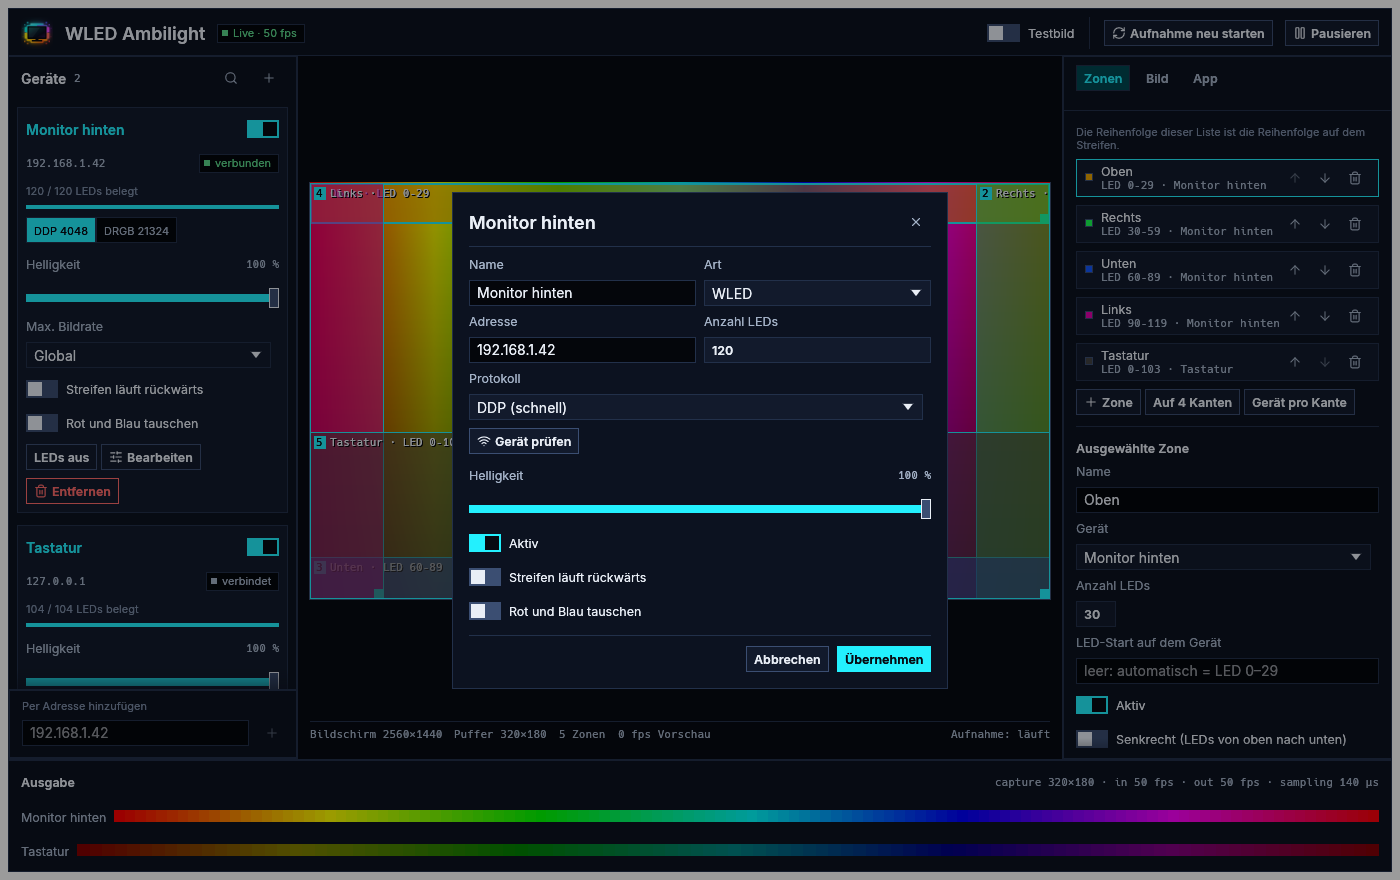
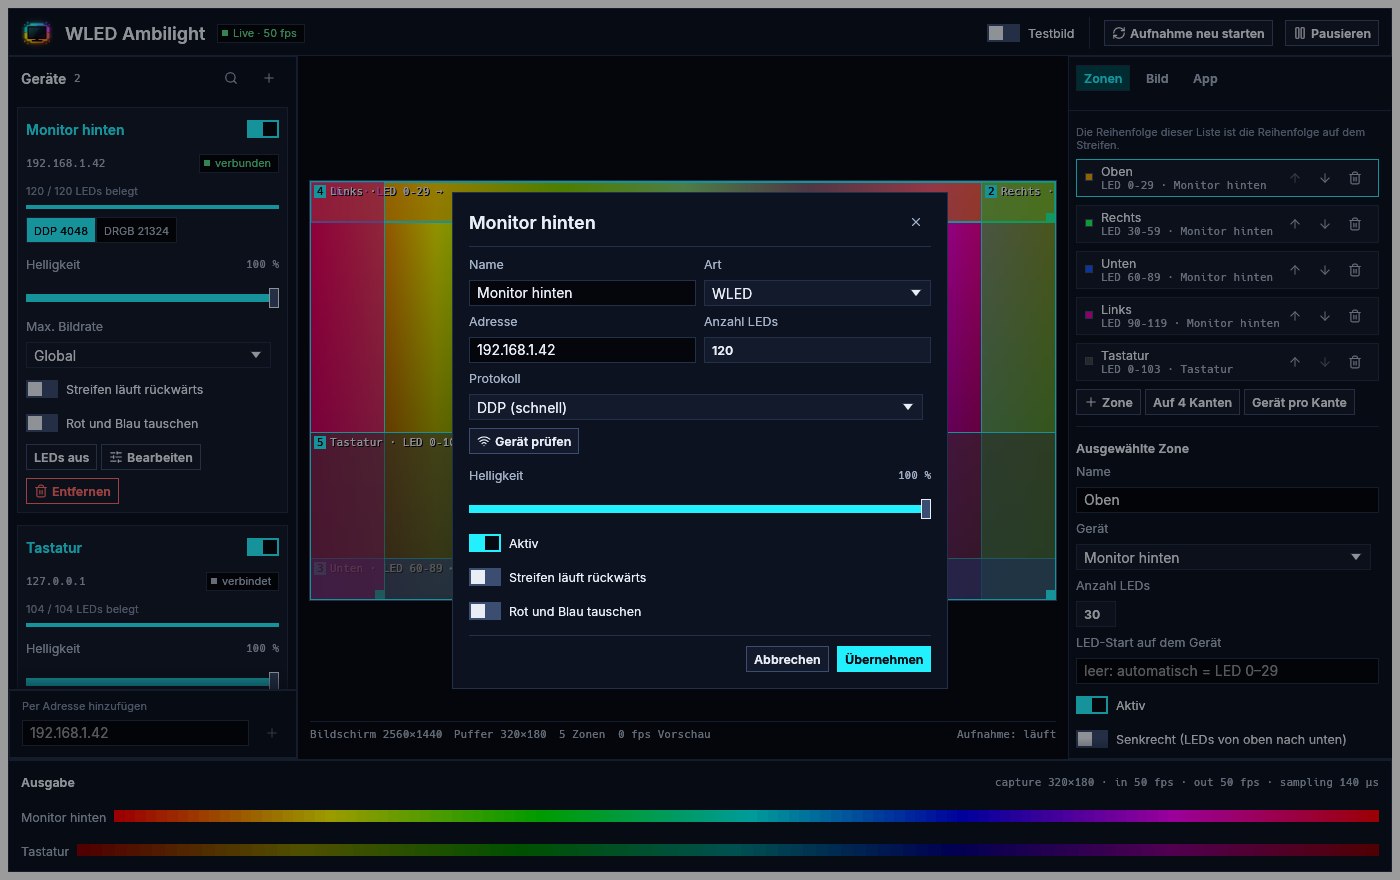
fix: Laufrichtung pro Zone umkehrbar (#32) (#35)
* fix: Laufrichtung pro Zone umkehrbar, unabhängig von „Senkrecht“

Bisher ließ sich die Richtung nur für den ganzen Streifen umkehren. Ein
Streifen, der rundherum hinter dem Bildschirm läuft, muss aber an einer Seite
hinunter und an der anderen hinauf laufen – eine Seite war immer gespiegelt.

- Zone bekommt `reverse` (serde default false): die Zone zählt ihre LEDs vom
  anderen Ende. Der Sampler nimmt es auf, der Layout-Hash auch.
- Alte Konfigurationen: nur flip_h/flip_v wandern noch aufs Gerät, `reverse`
  bleibt an der Zone.
- „Auf 4 Kanten“ legt einen Ring im Uhrzeigersinn an: unten und links laufen
  rückwärts (ZonePreset::reversed_in_loop). „Gerät pro Kante“ bleibt vorwärts.
- Inspektor: Schalter „Richtung umkehren (LED 0 am anderen Ende)“ neben
  „Senkrecht“; die Bühne zeigt hinter dem LED-Bereich einen Pfeil (→ ← ↓ ↑).

Closes #32

* docs: Zonenrichtung im README, Bildschirmfotos neu erzeugt

diff --git a/crates/core/src/config.rs b/crates/core/src/config.rs
@@ -141,6 +141,11 @@ pub struct Zone {
     pub count: u16,
     /// true: LEDs run top -> bottom, false: left -> right
     pub vertical: bool,
+    /// true: the direction is flipped (bottom -> top, right -> left). A strip
+    /// running in a loop behind the screen needs this on one of two opposite
+    /// sides (issue #32).
+    #[serde(default)]
+    pub reverse: bool,
     /// per zone gain
     pub gain: f32,
     pub enabled: bool,
@@ -168,6 +173,7 @@ impl Zone {
             h,
             count: count.max(1),
             vertical,
+            reverse: false,
             gain: 1.0,
             enabled: true,
             offset: None,
@@ -186,6 +192,15 @@ pub enum ZonePreset {
     #[allow(dead_code)]
     Full,
     Custom,
+}
+
+impl ZonePreset {
+    /// One strip in a loop behind the screen, clockwise from the top left:
+    /// right along the top, down the right, back along the bottom, up the
+    /// left. Bottom and left therefore run backwards (issue #32).
+    pub fn reversed_in_loop(self) -> bool {
+        matches!(self, ZonePreset::Bottom | ZonePreset::Left)
+    }
 }
 
 #[derive(Debug, Clone, PartialEq, Serialize, Deserialize)]
@@ -316,14 +331,14 @@ impl Config {
 
     pub fn from_json(text: &str) -> Result<Self, serde_json::Error> {
         let mut v: serde_json::Value = serde_json::from_str(text)?;
-        // Zones used to carry flip_h/flip_v. A reversed strip is a property of the
-        // device, so fold the old flags into it (safe for the one-zone case).
+        // Zones used to carry flip_h/flip_v. Those mirrored the whole strip, so
+        // fold them into the device (safe for the one-zone case). `reverse` on a
+        // zone is the direction of that zone alone and stays where it is.
         let mut flip_devices: Vec<String> = Vec::new();
         if let Some(zones) = v.get_mut("zones").and_then(|z| z.as_array_mut()) {
             for z in zones.iter_mut() {
                 let flipped = z.get("flip_h").and_then(|b| b.as_bool()).unwrap_or(false)
-                    || z.get("flip_v").and_then(|b| b.as_bool()).unwrap_or(false)
-                    || z.get("reverse").and_then(|b| b.as_bool()).unwrap_or(false);
+                    || z.get("flip_v").and_then(|b| b.as_bool()).unwrap_or(false);
                 if flipped {
                     if let Some(dev) = z.get("device").and_then(|d| d.as_str()) {
                         flip_devices.push(dev.to_string());
@@ -332,7 +347,6 @@ impl Config {
                 if let Some(o) = z.as_object_mut() {
                     o.remove("flip_h");
                     o.remove("flip_v");
-                    o.remove("reverse");
                 }
             }
         }
@@ -504,7 +518,8 @@ impl Config {
     }
 
     /// Replace zone `i` by four edge zones (top, right, bottom, left) and
-    /// share its LEDs out over them by edge length. `aspect` is
+    /// share its LEDs out over them by edge length. The edges form one loop
+    /// clockwise, so bottom and left run backwards (issue #32). `aspect` is
     /// height/width of the screen. Returns the four LED counts, or `None` when
     /// the zone has fewer than four LEDs (four edges need at least one each).
     ///
@@ -529,6 +544,7 @@ impl Config {
             z.gain = zone.gain;
             z.enabled = zone.enabled;
             z.vertical = kind == ZonePreset::Left || kind == ZonePreset::Right;
+            z.reverse = kind.reversed_in_loop();
             if let Some(start) = next.as_mut() {
                 z.offset = Some(*start as u16);
                 *start += counts[k] as u32;
@@ -701,6 +717,29 @@ mod tests {
         // configs from 0.2.0 have no kind: they are WLED devices
         assert_eq!(cfg.devices[0].kind, DeviceKind::Wled);
         assert_eq!(cfg.devices[0].token, None);
+        // old zones have no direction of their own
+        assert!(!cfg.zones[0].reverse);
+    }
+
+    /// Issue #32: the direction belongs to the zone, not to the strip.
+    #[test]
+    fn zone_reverse_stays_on_the_zone() {
+        let json = r#"{
+            "devices": [{"id":"a","name":"A","host":"a","led_count":20,"enabled":true,
+                         "protocol":"Ddp","brightness":1.0,"reverse":false,"bgr":false}],
+            "zones": [{"name":"L","device":"a","x":0,"y":0,"w":0.1,"h":1,"count":10,
+                       "vertical":true,"reverse":true,"gain":1,"enabled":true,"offset":null,
+                       "color":[1,2,3]},
+                      {"name":"R","device":"a","x":0.9,"y":0,"w":0.1,"h":1,"count":10,
+                       "vertical":true,"gain":1,"enabled":true,"offset":null,
+                       "color":[1,2,3]}]
+        }"#;
+        let cfg = Config::from_json(json).unwrap();
+        assert!(!cfg.devices[0].reverse);
+        assert!(cfg.zones[0].reverse && cfg.zones[0].vertical);
+        assert!(!cfg.zones[1].reverse && cfg.zones[1].vertical);
+        let again = Config::from_json(&serde_json::to_string(&cfg).unwrap()).unwrap();
+        assert_eq!(again.zones, cfg.zones);
     }
 
     #[test]

diff --git a/crates/core/src/sampler.rs b/crates/core/src/sampler.rs
@@ -50,6 +50,7 @@ pub fn layout_hash(cfg: &Config) -> u64 {
         z.device.hash(&mut h);
         z.enabled.hash(&mut h);
         z.vertical.hash(&mut h);
+        z.reverse.hash(&mut h);
         z.count.hash(&mut h);
         z.offset.hash(&mut h);
         for f in [z.x, z.y, z.w, z.h, z.gain] {
@@ -102,7 +103,9 @@ pub fn build(cfg: &Config, w: u32, h: u32) -> Plan {
                         y1,
                     }
                 };
-                let led = start + i;
+                // the cell walks the screen forward; a reversed zone counts its
+                // LEDs from the other end
+                let led = start + if zone.reverse { n - 1 - i } else { i };
                 if led < dev.led_count as u32 {
                     if let Some(g) = gains.get_mut(led as usize) {
                         *g = zone.gain;
@@ -278,5 +281,39 @@ mod tests {
         sample(&plan, &frame_tb(10, 100), 0.0, &mut out);
         assert_eq!(out[0][0][0] as u8, 255, "LED 0 white = top half");
         assert_eq!(out[0][3][0] as u8, 0, "LED 3 black = bottom half");
+    }
+
+    /// Issue #32: a strip in a loop runs up on one side and down on the other.
+    #[test]
+    fn reversed_vertical_zone_reads_bottom_to_top() {
+        let mut z = zone();
+        z.vertical = true;
+        z.reverse = true;
+        let cfg = cfg_with(z);
+        let plan = build(&cfg, 10, 100);
+        let mut out = Vec::new();
+        sample(&plan, &frame_tb(10, 100), 0.0, &mut out);
+        assert_eq!(out[0][0][0] as u8, 0, "LED 0 black = bottom half");
+        assert_eq!(out[0][3][0] as u8, 255, "LED 3 white = top half");
+    }
+
+    #[test]
+    fn reversed_horizontal_zone_reads_right_to_left() {
+        let mut z = zone();
+        z.reverse = true;
+        let cfg = cfg_with(z);
+        let plan = build(&cfg, 100, 10);
+        let mut out = Vec::new();
+        sample(&plan, &frame_lr(100, 10), 0.0, &mut out);
+        assert_eq!(out[0][0][0] as u8, 0, "LED 0 black = right half");
+        assert_eq!(out[0][3][0] as u8, 255, "LED 3 white = left half");
+    }
+
+    #[test]
+    fn layout_hash_tracks_the_direction() {
+        let mut cfg = cfg_with(zone());
+        let a = layout_hash(&cfg);
+        cfg.zones[0].reverse = true;
+        assert_ne!(a, layout_hash(&cfg));
     }
 }

diff --git a/crates/fenster/src/logik.rs b/crates/fenster/src/logik.rs
@@ -315,6 +315,8 @@ pub fn ausfuehren(a: Aktion, o: &mut Oberflaeche, k: &Kern, jetzt: Instant) {
             for (kante, anzahl) in KANTEN.into_iter().zip(kanten_leds(d.led_count)) {
                 let mut z = Zone::preset(kante, d.id.clone(), anzahl, [0, 0, 0]);
                 z.name = kanten_name(kante).to_string();
+                // Ein Streifen rundherum: unten und links zurück (Issue #32).
+                z.reverse = kante.reversed_in_loop();
                 o.config.zones.push(z);
             }
             o.aktiv = erste;
@@ -557,6 +559,16 @@ pub fn led_text(start: u32, anzahl: u16) -> String {
         format!("LED {start}–{}", start + anzahl as u32 - 1)
     } else {
         format!("LED {start}")
+    }
+}
+
+/// Pfeil von LED 0 zur letzten LED einer Zone, wie sie im Bild liegt.
+pub fn richtung(z: &Zone) -> &'static str {
+    match (z.vertical, z.reverse) {
+        (true, false) => "↓",
+        (true, true) => "↑",
+        (false, false) => "→",
+        (false, true) => "←",
     }
 }
 
@@ -824,6 +836,30 @@ mod tests {
         ausfuehren(Aktion::ZonenAufKanten, &mut o, &k, Instant::now());
         // Die Zonen folgen aufeinander: 0, 30, 60, 90.
         assert_eq!(o.config.zone_starts(), vec![0, 30, 60, 90]);
+        // Ein Ring im Uhrzeigersinn: unten und links laufen zurück (#32).
+        let rueck: Vec<bool> = o.config.zones.iter().map(|z| z.reverse).collect();
+        assert_eq!(rueck, vec![false, false, true, true]);
+    }
+
+    #[test]
+    fn geraet_je_kante_laeuft_vorwaerts() {
+        // Getrennte Streifen: jeder beginnt an seinem Anfang.
+        let (k, _) = kern(vec![]);
+        let mut o = mit_geraet();
+        ausfuehren(Aktion::GeraetJeKante, &mut o, &k, Instant::now());
+        assert!(o.config.zones.iter().all(|z| !z.reverse));
+    }
+
+    #[test]
+    fn richtungspfeil_folgt_der_zone() {
+        let mut z = Zone::preset(ZonePreset::Left, "d".into(), 10, [0, 0, 0]);
+        assert_eq!(richtung(&z), "↓");
+        z.reverse = true;
+        assert_eq!(richtung(&z), "↑");
+        z.vertical = false;
+        assert_eq!(richtung(&z), "←");
+        z.reverse = false;
+        assert_eq!(richtung(&z), "→");
     }
 
     #[test]

diff --git a/crates/fenster/tests/oberflaeche.rs b/crates/fenster/tests/oberflaeche.rs
@@ -97,6 +97,7 @@ fn beispiel(thema: Thema) -> (Fenster, Arc<Shared>) {
     ] {
         let mut z = Zone::preset(kante, "192.168.1.42".into(), 30, [0, 0, 0]);
         z.name = name.into();
+        z.reverse = kante.reversed_in_loop();
         cfg.zones.push(z);
     }
     let mut z = Zone::preset(ZonePreset::Full, tastatur_id(), 104, [0, 0, 0]);
@@ -297,6 +298,33 @@ fn zonen_liste_und_pfeiltasten() {
     h.run_steps(2);
     let gross = shared.config().zones[4].y;
     assert!((nachher - gross - 0.05).abs() < 1e-4, "{nachher} → {gross}");
+}
+
+/// Issue #32: Senkrecht und Richtung sind zwei eigene Schalter, die sich
+/// nicht gegenseitig ausschalten.
+#[test]
+fn zonenrichtung_ist_unabhaengig_von_senkrecht() {
+    let (f, shared) = beispiel(Thema::Dunkel);
+    // Hoch genug, dass der Inspektor ohne Scrollen alle Schalter zeigt.
+    let mut h = harness(f, (1400.0, 1300.0));
+    h.run_steps(3);
+    h.get_by_label("Zone Rechts").click();
+    h.run_steps(2);
+    h.get_by_label("Richtung umkehren (LED 0 am anderen Ende)")
+        .click();
+    h.run_steps(2);
+    let z = &shared.config().zones[1];
+    assert_eq!(z.name, "Rechts");
+    assert!(z.reverse && z.vertical, "beides an");
+    // Links lief schon rückwärts; Senkrecht ausschalten lässt die Richtung.
+    h.get_by_label("Zone Links").click();
+    h.run_steps(2);
+    h.get_by_label("Senkrecht (LEDs von oben nach unten)")
+        .click();
+    h.run_steps(2);
+    let z = &shared.config().zones[3];
+    assert_eq!(z.name, "Links");
+    assert!(z.reverse && !z.vertical, "Richtung bleibt");
 }
 
 #[test]

diff --git a/crates/core/src/engine.rs b/crates/core/src/engine.rs
@@ -774,12 +774,13 @@ mod tests {
             &frame[(counts[0] + counts[1]) as usize..(counts[0] + counts[1] + counts[2]) as usize];
         let left = &frame[(120 - counts[3]) as usize..];
 
-        // top and bottom run left -> right, top sits at the top of the picture
-        assert!(top[1][0] > top[0][0] && bottom[1][0] > bottom[0][0]);
+        // one loop clockwise: top left -> right, right downwards, bottom
+        // right -> left, left upwards; top sits at the top of the picture
+        assert!(top[1][0] > top[0][0], "top edge runs to the right");
+        assert!(bottom[1][0] < bottom[0][0], "bottom edge runs to the left");
         assert!(mean(top, 1) < mean(bottom, 1), "top rows over bottom rows");
-        // left and right run top -> bottom
         assert!(right[1][1] > right[0][1], "right edge runs downwards");
-        assert!(left[1][1] > left[0][1], "left edge runs downwards");
+        assert!(left[1][1] < left[0][1], "left edge runs upwards");
         assert!(
             mean(right, 0) > mean(left, 0),
             "right columns right of left"

diff --git a/crates/fenster/src/ansichten/inspektor.rs b/crates/fenster/src/ansichten/inspektor.rs
@@ -304,6 +304,17 @@ fn zonen(ui: &mut Ui, f: &Farben, o: &Oberflaeche, a: &mut Vec<Aktion>) {
     ) {
         neu.vertical = an;
     }
+    if let Some(an) = bausteine::schalter(
+        ui,
+        f,
+        z.reverse,
+        tr(
+            "Richtung umkehren (LED 0 am anderen Ende)",
+            "Reverse direction (LED 0 at the other end)",
+        ),
+    ) {
+        neu.reverse = an;
+    }
     bausteine::abschnitt(ui, f, tr("Größe im Aufnahmebild", "Size in the capture"));
     if let Some(w) = bausteine::regler(
         ui,

diff --git a/crates/fenster/src/ansichten/buehne.rs b/crates/fenster/src/ansichten/buehne.rs
@@ -286,7 +286,12 @@ fn zone(
         schrift.clone(),
         f.text_on_accent,
     );
-    let beschriftung = format!("{} · {}", z.name, logik::led_text(start, z.count));
+    let beschriftung = format!(
+        "{} · {} {}",
+        z.name,
+        logik::led_text(start, z.count),
+        logik::richtung(z)
+    );
     let pos = Pos2::new(marke.right() + thema::SPACE_1, marke.center().y);
     // Schatten unter der Schrift, damit sie auf jedem Bild lesbar bleibt.
     innen.text(

diff --git a/crates/fenster/src/modell.rs b/crates/fenster/src/modell.rs
@@ -149,7 +149,8 @@ impl Oberflaeche {
 }
 
 /// Welche Zonen „Auf 4 Kanten“ und „Gerät pro Kante“ anlegen – in der
-/// Reihenfolge, in der ein Streifen üblicherweise läuft.
+/// Reihenfolge, in der ein Streifen üblicherweise läuft (im Uhrzeigersinn ab
+/// oben links; bei einem Streifen laufen unten und links darum rückwärts).
 pub const KANTEN: [ZonePreset; 4] = [
     ZonePreset::Top,
     ZonePreset::Right,

diff --git a/README.de.md b/README.de.md
@@ -150,9 +150,12 @@ starten. Ist der Build nicht notarisiert, meldet macOS, die App „kann nicht
    Gerät auf **+** klicken. Es bekommt eine Zone mit allen LEDs an einer freien
    Bildschirmkante.
 3. **Zonen platzieren.** Für einen Streifen rund um den Bildschirm die Zone
-   auswählen und **Auf 4 Kanten** klicken. Richtung prüfen: der kleine Pfeil in
-   jeder Zone markiert LED 0. Läuft das Licht falsch herum, beim Gerät
-   **Reihenfolge umkehren** einschalten.
+   auswählen und **Auf 4 Kanten** klicken. Die vier Zonen bilden einen Ring im
+   Uhrzeigersinn ab oben links (unten und links laufen rückwärts). Richtung
+   prüfen: der Pfeil hinter dem LED-Bereich jeder Zone zeigt von LED 0 zur
+   letzten LED. Stimmt eine einzelne Seite nicht, bei dieser Zone **Richtung
+   umkehren** einschalten; läuft der ganze Streifen falsch herum, beim Gerät
+   **Streifen läuft rückwärts**.
 4. **Bild abstimmen** im Reiter *Bild*. Alles wird automatisch gespeichert.
 
 ## Begriffe
@@ -173,10 +176,12 @@ starten. Ist der Build nicht notarisiert, meldet macOS, die App „kann nicht
   Zone** auf oben, rechts, unten und links auf, nach Kantenlänge. Andere Zonen
   desselben Geräts bleiben unangetastet; eine Zone mit fester erster LED behält
   ihren Platz auf dem Streifen.
-- **Waagerecht / senkrecht** – waagerechte Zonen laufen links → rechts,
-  senkrechte oben → unten. Ist ein Streifen andersherum verkabelt, wird das pro
-  Gerät mit **Reihenfolge umkehren** korrigiert (spiegelt den ganzen
-  Streifen inklusive der Reihenfolge aufgeteilter Zonen).
+- **Waagerecht / senkrecht, Richtung** – waagerechte Zonen laufen links →
+  rechts, senkrechte oben → unten. **Richtung umkehren** dreht eine einzelne
+  Zone um (rechts → links, unten → oben) und ist unabhängig von *Senkrecht*:
+  ein Streifen im Ring läuft an einer Seite hinunter und an der anderen hinauf.
+  **Streifen läuft rückwärts** beim Gerät spiegelt dagegen den ganzen Streifen
+  samt Reihenfolge der Zonen.
 - **Aufnahmeauflösung** – der Bildschirm wird auf einen kleinen Puffer
   verkleinert (Standard 320 px breit). Das ist die Genauigkeit der Zonen; höhere
   Werte erlauben feinere Zonen und kosten etwas mehr CPU.

diff --git a/README.md b/README.md
@@ -142,9 +142,12 @@ is not notarised, macOS says the app “cannot be checked”: right-click the ap
    **+** next to a device. It gets one zone with all its LEDs on a free
    screen edge.
 3. **Place the zones.** For a strip running around the screen select its
-   zone and click **Split to 4 edges**. Check the direction: the small chevron
-   in each zone marks LED 0. If the light runs the wrong way, switch on
-   **Reverse order** for the device.
+   zone and click **Split to 4 edges**. The four zones form one loop clockwise
+   from the top left (bottom and left run backwards). Check the direction: the
+   arrow next to each zone's LED range points from LED 0 to its last LED. If a
+   single side is wrong, switch on **Reverse direction** for that zone; if the
+   whole strip runs the wrong way, switch on **Strip runs backwards** for the
+   device.
 4. **Tune the picture** on the *Picture* tab. Settings are saved automatically.
 
 ## Concepts
@@ -155,10 +158,11 @@ is not notarised, macOS says the app “cannot be checked”: right-click the ap
   the order on the strip** (`LED 0–36`, `LED 37–58`, …). The LED count of a
   zone is independent of its size: the rectangle is cut into equal cells, one
   per LED, and each cell is averaged.
-- **Horizontal / vertical** – horizontal zones run left → right, vertical
-  zones top → bottom. A strip that is wired the other way round is fixed per
-  device with **Reverse order** (this mirrors the whole strip, including
-  the order of split zones).
+- **Horizontal / vertical, direction** – horizontal zones run left → right,
+  vertical zones top → bottom. **Reverse direction** flips one zone (right →
+  left, bottom → top) and is independent of *Vertical*: a strip in a loop runs
+  down one side and up the other. **Strip runs backwards** on the device
+  mirrors the whole strip instead, including the order of the zones.
 - **LED block** – the section of the strip a zone drives. It sits on the
   *Zones* tab under *First LED*: the number field or the `−10 −1 +1 +10`
   buttons move it along the whole strip, `Auto` packs the zone behind the one
